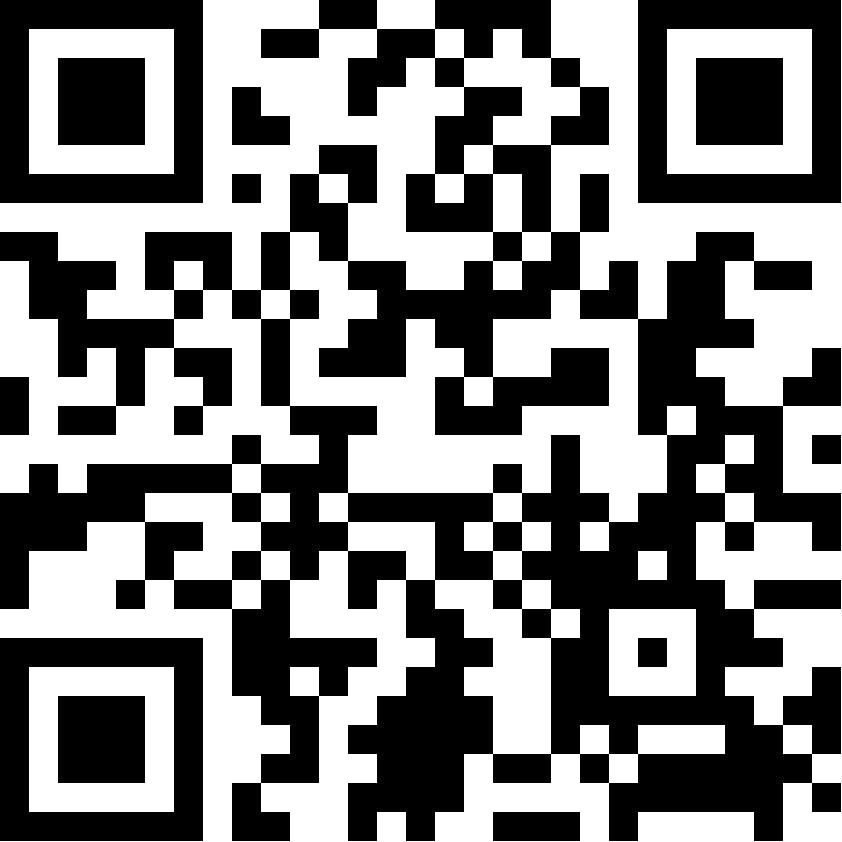
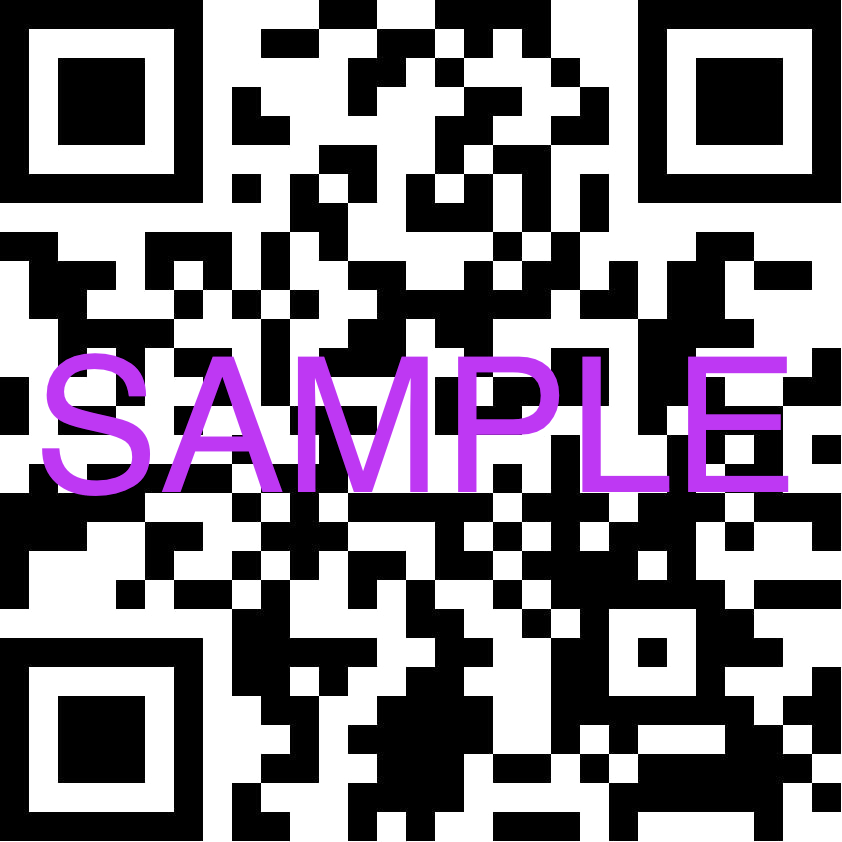
added SAMPLE text to preview qr code

Changed region(s): [[0.0309, 0.4014, 0.9572, 0.5867]]

diff --git a/script.js b/script.js
@@ -4,7 +4,7 @@ const qrApp = {};
 qrApp.baseUrl = "https://api.happi.dev/v1/qrCode?";
 qrApp.key = "49e3d00PdlOr6kNixKJddRalSAi41U3oPuUTmv6qDwobjjD9C9k0i0MW";
 
-// calling the API
+// Calling the API
 qrApp.getQr = function(qrQuery, qrColor, qrWidth) {
   const qrPromise = $.ajax({
     url: `${qrApp.baseUrl}`,
@@ -20,7 +20,7 @@ qrApp.getQr = function(qrQuery, qrColor, qrWidth) {
   return qrPromise;
 };
 
-// this is to display the QR code to the page
+// This is to display the QR code to the page
 qrApp.displayQr = function(data, bgColor, width) {
   qrApp
     .getQr(data, bgColor, width)
@@ -49,7 +49,7 @@ qrApp.displayQr = function(data, bgColor, width) {
     });
 };
 
-// submit the URL input to generate the QR code
+// Submit the URL input to generate the QR code
 qrApp.userSubmission = function() {
   $("form").on("submit", function(e) {
     e.preventDefault();
@@ -70,7 +70,7 @@ qrApp.userSubmission = function() {
   });
 };
 
-// submit the twitter info to generate the QR code
+// Submit the twitter info to generate the QR code
 qrApp.userTwitterSubmission = function() {
   $("form").on("submit", function(e) {
     e.preventDefault();
@@ -104,7 +104,7 @@ qrApp.userTwitterSubmission = function() {
   });
 };
 
-// submit the meCard info to generate the QR code
+// Submit the meCard info to generate the QR code
 qrApp.meCard = function() {
   $("form").on("submit", function(e) {
     e.preventDefault();
@@ -165,7 +165,7 @@ qrApp.meCard = function() {
   });
 };
 
-// preview of changes
+// Preview of changes
 $(".width").on("keyup", function() {
   $(".imgTest").css("width", this.value);
   $(".imgTest").css("height", this.value);
@@ -183,7 +183,7 @@ qrApp.init = function() {
   qrApp.userTwitterSubmission();
   qrApp.meCard();
 
-  //clear all input when refreshing page
+  //Clear all input when refreshing page
   $("#userUrl").val("www.");
   $("#width").val("");
   $("#color").val("#ffffff");
@@ -203,7 +203,7 @@ qrApp.init = function() {
   $(".errorName").empty();
   $(".errorTel").empty();
 
-  //click WebsiteLink
+  //Click WebsiteLink
   $("#userWebsiteLink").click(function() {
     $(".userUrlForm").show();
     $(".userTwitterForm").hide();
@@ -213,7 +213,7 @@ qrApp.init = function() {
     $(".userContactLink").css("color", "#f7f6f5");
   });
 
-  //click TwitterLink
+  //Click TwitterLink
   $("#userTwitterLink").click(function() {
     $(".userUrlForm").hide();
     $(".userTwitterForm").show();
@@ -223,7 +223,7 @@ qrApp.init = function() {
     $(".userContactLink").css("color", "#f7f6f5");
   });
 
-  //click contactLink
+  //Click contactLink
   $("#userContactLink").click(function() {
     $(".userUrlForm").hide();
     $(".userTwitterForm").hide();
@@ -233,7 +233,7 @@ qrApp.init = function() {
     $(".userContactLink").css("color", "#343039");
   });
 
-  // reset button
+  // Reset button
   $("input[type=reset]").click(function() {
     window.location.reload();
   });

diff --git a/index.html b/index.html
@@ -27,7 +27,10 @@
     <main class="wrapper">
       <!-- LOGO section -->
       <div class="logo">
-        <img src="./asset/qrCode.png" alt="" />
+        <img
+          src="./asset/qrCode.png"
+          alt="cellphone with a qr code displayed"
+        />
         <h1>QR Codefolio</h1>
         <p>Generate a QR Code for your brand!</p>
         <a href="#qrGenerator"
@@ -251,7 +254,7 @@
             <div id="qrCode">
               <img
                 src="./asset/QR-Code-Transparent.png"
-                alt="qrCodeSample"
+                alt="Your sample qr code"
                 class="imgTest"
               />
               <!-- this is where the live preview would go and the QR code -->

diff --git a/styles/sass/_main.scss b/styles/sass/_main.scss
@@ -4,6 +4,7 @@ body {
   padding: 0;
 }
 
+//Logo styling
 .logo {
   display: flex;
   align-items: center;
@@ -35,6 +36,7 @@ body {
     color: $fontColor;
     display: block;
   }
+
   .getStarted {
     a {
       color: $secondaryColor;
@@ -44,6 +46,7 @@ body {
   }
 }
 
+//The generator styling
 .qrGenerator {
   padding-top: 1%;
   padding-bottom: 5%;

diff --git a/styles/sass/_global.scss b/styles/sass/_global.scss
@@ -9,7 +9,7 @@ $secondaryAccent: #8070b2;
 $playtone: "Paytone One", sans-serif;
 $raleway: "Raleway", sans-serif;
 
-/* stripping style */
+/* Utilites */
 body,
 h1,
 p {

diff --git a/styles/style.css b/styles/style.css
@@ -235,7 +235,7 @@ html {
   overflow: hidden;
 }
 
-/* stripping style */
+/* Utilites */
 body,
 h1,
 p {
